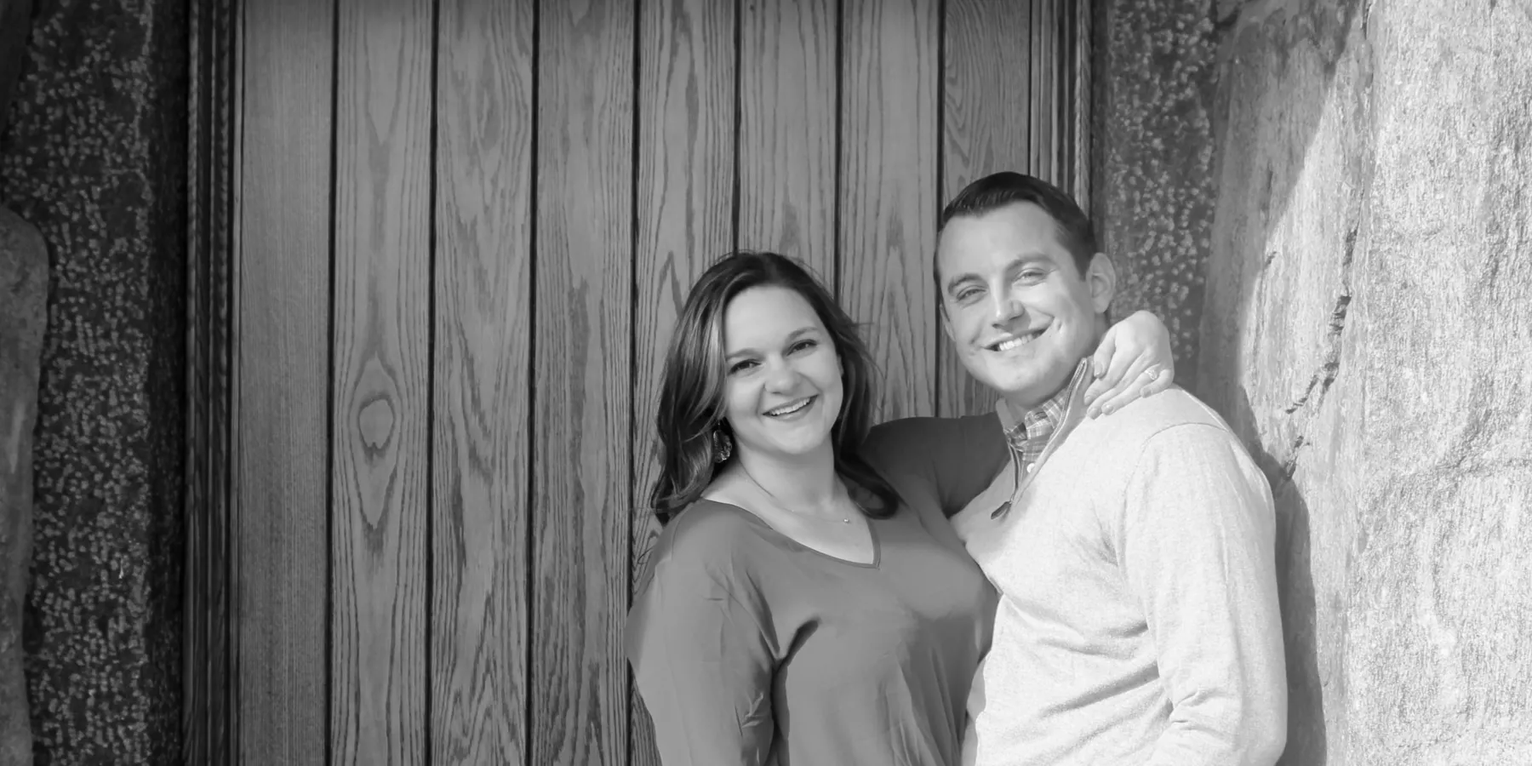
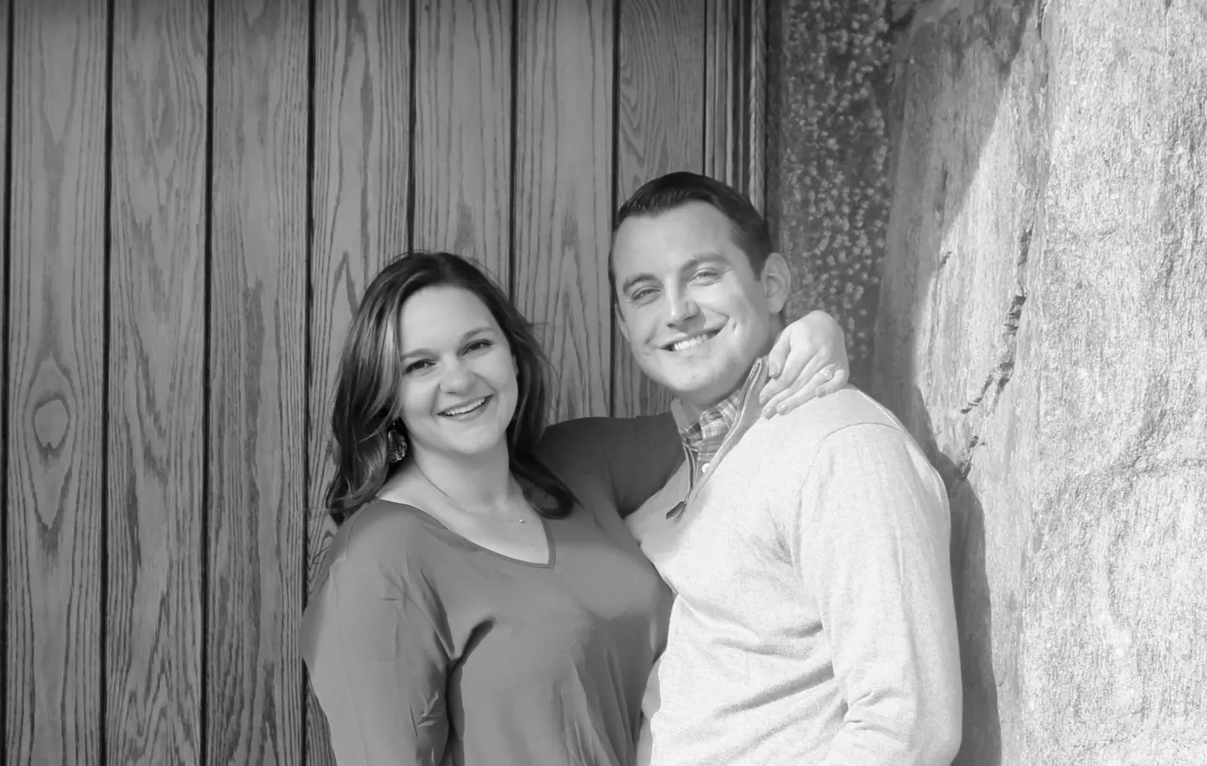
image cropping

diff --git a/css/styles.min.css b/css/styles.min.css
@@ -1,1 +1,1 @@
-@import url(https://fonts.googleapis.com/css?family=Open+Sans:300italic,400italic,600italic,700italic,800italic,400,300,600,700,800);@import url(https://fonts.googleapis.com/css?family=Merriweather:400,300,400italic,300italic,700,700italic);@import url(https://fonts.googleapis.com/css?family=Nunito:400,300,700);p{font-size:15px;line-height:29px;color:rgba(28,54,83,0.6);padding-bottom:20px}h1{font-size:60px}h2{font-size:40px;font-weight:300;color:#3D4351}h3{color:#3D4351;font-size:18px;font-weight:700;text-transform:uppercase;letter-spacing:3px;line-height:29px}h4{font-size:18px}h5{font-size:15px;color:#3D4351;text-transform:uppercase;font-weight:500}.btn{font-size:13px;border:solid 2px;-moz-border-radius:40px;-webkit-border-radius:40px;border-radius:40px;display:inline-block;text-transform:uppercase}.btn:hover,.btn:focus{color:#fff;border-color:#e8ca6f;background-color:#e8ca6f}.btn-white{font-size:13px;border:solid 2px;-moz-border-radius:40px;-webkit-border-radius:40px;border-radius:40px;display:inline-block;border-color:#fff}.btn-white:hover,.btn-white:focus{color:#e8ca6f;border-color:#e8ca6f}.btn-fill{color:#fff;border:solid 2px #e8ca6f;-moz-border-radius:40px;-webkit-border-radius:40px;border-radius:40px;display:inline-block;text-transform:uppercase;background-color:#e8ca6f}.btn-fill:hover,.btn-fill:focus{color:#fff;background-color:#d3b56a;border-color:#d3b56a}.btn-small{padding:8px 30px}.btn-large{padding:15px 40px}.btn-margin-right{margin-right:20px}section.intro,section.features-extra,section.rsvp{background:#fff}section.features,section.events,section.blog{background:#f8f9fd}.group:after{content:"";display:table;clear:both}.no-padding{padding:0}.no-margin{margin:0}a{color:#e8ca6f;-webkit-transition-timing-function:ease;transition-timing-function:ease;-webkit-transition-duration:200ms;transition-duration:200ms;-webkit-transition-property:color, border-color, background-color;transition-property:color, border-color, background-color}a:hover,a:focus{color:#d3b56a;text-decoration:none}body{font-family:"Open Sans",sans-serif;font-weight:300;color:rgba(28,54,83,0.6);-webkit-text-size-adjust:100%}*:focus{outline:none !important}ul,ol{margin:0;padding:0}ul li{list-style:none}section .header{padding-bottom:30px}.section-padding{padding:40px 0}.section-border{border-bottom:1px solid #E6E9EA}.tooltip{position:absolute;z-index:1070;display:block;font-family:"Helvetica Neue", Helvetica, Arial, sans-serif;font-size:12px;font-weight:normal;line-height:1.4;visibility:visible;filter:alpha(opacity=0);opacity:0}.tooltip.in{filter:alpha(opacity=90);opacity:.9}.tooltip.top{padding:5px 0;margin-top:-3px}.tooltip.right{padding:0 5px;margin-left:3px}.tooltip.bottom{padding:5px 0;margin-top:3px}.tooltip.left{padding:0 5px;margin-left:-3px}.tooltip-inner{max-width:200px;padding:3px 8px;color:#fff;text-align:center;text-decoration:none;text-transform:capitalize;background-color:#000;border-radius:4px}.pulse2{animation-name:pulse2;animation-duration:1s;animation-iteration-count:infinite;animation-timing-function:linear}@keyframes pulse2{0%{transform:scale(1.1)}50%{transform:scale(0.8)}100%{transform:scale(1)}}.floating-arrow{animation-name:floating-arrow;animation-duration:2s;animation-iteration-count:infinite;animation-timing-function:ease-in-out}@keyframes floating-arrow{from{transform:translate(-50%, 0)}65%{transform:translate(-50%, 15px)}to{transform:translate(-50%, 0)}}.floating-logo{animation-name:floating-logo;animation-duration:2s;animation-iteration-count:infinite;animation-timing-function:ease-in-out}@keyframes floating-logo{from{transform:translate(-50%, 0)}50%{transform:translate(-50%, 10px)}to{transform:translate(-50%, 0)}}.wp1,.wp2,.wp3,.wp4,.wp5,.wp6,.wp7,.wp8,.wp9{visibility:hidden}.wp8,.wp9{-webkit-animation-delay:0.3s;animation-delay:0.3s}.bounceInLeft,.bounceInRight,.fadeInUp,.fadeInUpDelay,.fadeInDown,.fadeInUpD,.fadeInLeft,.fadeInRight,.bounceInDown{visibility:visible}.header-nav.open{visibility:visible;opacity:0.9;-webkit-transition:opacity 0.5s;transition:opacity 0.5s}.nav-toggle{position:absolute;top:0;right:15px;z-index:999999;padding:10px 35px 16px 0;cursor:pointer}.nav-toggle:focus{outline:none}.nav-toggle span,.nav-toggle span:before,.nav-toggle span:after{content:"";position:absolute;display:block;width:35px;height:3px;-moz-border-radius:1px;-webkit-border-radius:1px;border-radius:1px;background:#fff;cursor:pointer}.nav-toggle span:before{top:-10px}.nav-toggle span:after{bottom:-10px}.nav-toggle span,.nav-toggle span:before,.nav-toggle span:after{-moz-transition:all 300ms ease-in-out;-o-transition:all 300ms ease-in-out;-webkit-transition:all 300ms ease-in-out;transition:all 300ms ease-in-out}.nav-toggle.active span{background-color:transparent}.nav-toggle.active span:before,.nav-toggle.active span:after{top:0}.nav-toggle.active span:before{-moz-transform:rotate(45deg);-ms-transform:rotate(45deg);-o-transform:rotate(45deg);-webkit-transform:rotate(45deg);transform:rotate(45deg)}.nav-toggle.active span:after{top:10px;-moz-transform:translatey(-10px) rotate(-45deg);-ms-transform:translatey(-10px) rotate(-45deg);-o-transform:translatey(-10px) rotate(-45deg);-webkit-transform:translatey(-10px) rotate(-45deg);transform:translatey(-10px) rotate(-45deg)}.navicon{position:absolute;height:26px;right:10px;top:48px;visibility:hidden;transition:all 300ms ease-in-out}.hero{min-height:750px;background:url("../img/hero-min.jpg") center center;-webkit-background-size:cover;-moz-background-size:cover;-o-background-size:cover;background-size:cover;position:relative}.hero .down-arrow a{color:#fff}.hero h1{color:#fff;margin-bottom:40px}.hero p.intro{color:#fff;font-size:20px;font-weight:300;margin-bottom:80px}.hero .hero-content{padding-top:40%}.hero .hero-content img{width:55%;margin-bottom:12%}.navigation{transition:all 300ms ease-in-out;position:fixed;width:100%;z-index:999}.fixed{position:fixed;background-color:rgba(55,36,40,0.88);z-index:999;width:100%}header{padding:50px 0;border-bottom:solid 1px rgba(255,255,255,0.2);position:relative;width:1170px;margin:0 auto;transition:padding 300ms ease-in-out}header a{color:#fff;text-transform:uppercase;font-size:13px}header a.login{margin-right:20px}header .logo{display:inline-block}header .logo img{height:19px}header ul.primary-nav{margin:0 0 0 75px;padding:0}header ul.primary-nav li{display:inline}header ul.primary-nav li a{color:#fff;padding-right:25px}header ul.primary-nav li a:hover{color:#e8ca6f}header ul.primary-nav li:last-child a{padding-right:0px}header ul.member-actions li{display:inline}header ul.member-actions li a{color:#fff}header ul.member-actions li a:hover{color:#e8ca6f}header .header-nav{display:inline-block}header .member-actions{position:absolute;right:0;top:41px;transition:all 300ms ease-in-out}.down-arrow{color:#fff;font-size:30px;position:absolute;bottom:30px;left:50%;transform:translateX(-50%)}.share-bar{margin-top:20px}.intro span.icon{font-size:40px;color:#e8ca6f;font-weight:bold}.intro-icon{display:inline-block;vertical-align:top;padding:6px 0 0 0;margin-right:20px;width:40px}.intro-content{display:inline-block;width:80%}#intro{padding-top:40px}#intro img{width:100%;height:auto}#intro p{text-align:center}.features{position:relative}.features p{margin-bottom:0;padding-bottom:0}.features h3{margin:0 0 20px 0}.features span.icon{font-size:35px;color:#e8ca6f;font-weight:bold}.features .feature-icon{display:inline-block;vertical-align:top;padding:6px 0 0 0;margin-right:20px;width:35px}.features .feature-content{display:inline-block;width:75%}.features .intro-icon{display:inline-block;vertical-align:top;padding:6px 0 0 0;margin-right:20px}.features .intro-content{display:inline-block;width:80%}.features ul.features-stack{margin-top:50px}.features ul.features-stack li{margin-top:20px;padding-bottom:20px;border-bottom:solid 1px #E6E9EA}.features ul.features-stack li:last-child{padding-bottom:0px;border-bottom:none}.features .ipad-wrap{width:706px;height:1002px;background:url("../img/ipad-device.png") no-repeat center center;z-index:1}.features .iphone-wrap{width:304px;height:620px;background:url("../img/iphone6.png") no-repeat center center;position:absolute;left:530px;bottom:129px;z-index:2}.features .device-showcase{position:absolute;bottom:-365px;right:61%}.features .responsive-feature-img,.features-extra .responsive-feature-img{display:none}.devices{position:relative}.features-extra{position:relative;z-index:3}.features-extra .btn{margin-top:20px}.features-extra .macbook-wrap{position:absolute;width:916px;height:540px;background:url("../img/macbook-pro.png") no-repeat center center;top:114px;z-index:4;left:50%}.hero-strip{margin-top:120px;background:#333844 url("../img/polygonal-bg.jpg") no-repeat center center;padding-bottom:190px;position:relative}.hero-strip i{font-family:"Nunito",sans-serif;font-weight:300;font-size:25px;color:#F69D52;vertical-align:top;margin-left:-8px;font-style:normal}.hero-strip h2{color:#fff;margin:0 0 20px 0}.hero-strip p{color:#ACB1B4}.hero-strip .btn{margin-top:10px}.hero-strip .logo-placeholder{width:230px;height:230px;position:absolute;bottom:-285px;left:50%;transform:translateX(-50%)}.events .leftcol{padding-right:100px;border-right:solid 1px #E6E9EA}.events .rightcol{padding-left:100px}.events .time{font-size:13px;font-style:italic;text-transform:lowercase;color:rgba(28,54,83,0.6)}.blog{padding-bottom:120px}.blog img{width:100%;height:auto;-moz-transition:all 300ms ease-in-out;-o-transition:all 300ms ease-in-out;-webkit-transition:all 300ms ease-in-out;transition:all 300ms ease-in-out}.blog h2{font-size:11px;color:#ACB1B4;font-weight:500;text-transform:uppercase;margin-top:35px}.blog .btn{margin-top:20px}.blog .blog-img-wrap{position:relative;overflow:hidden}.blog .blog-img-wrap .overlay{position:absolute;width:100%;height:100%;background-color:rgba(255,255,255,0.5);-moz-transition:all 300ms ease-in-out;-o-transition:all 300ms ease-in-out;-webkit-transition:all 300ms ease-in-out;transition:all 300ms ease-in-out;-ms-filter:"progid:DXImageTransform.Microsoft.Alpha(Opacity=0)";filter:alpha(opacity=0);opacity:0}.blog .blog-img-wrap i{color:#fff;font-size:20px;position:absolute;width:20px;height:20px;top:25px;right:35px}.blog .blog-img-wrap:hover img,.blog .blog-img-wrap:focus img{-moz-transform:scale(1.1);-ms-transform:scale(1.1);-o-transform:scale(1.1);-webkit-transform:scale(1.1);transform:scale(1.1)}.blog .blog-img-wrap:hover .overlay,.blog .blog-img-wrap:focus .overlay{-ms-filter:"progid:DXImageTransform.Microsoft.Alpha(Opacity=1)";filter:alpha(opacity=1);opacity:1;z-index:9}.blog figcaption i{margin-left:5px;font-size:15px}.blog figcaption a.blog-post-title{color:rgba(28,54,83,0.6)}.blog figcaption a.blog-post-title:hover,.blog figcaption a.blog-post-title:focus{color:#3D4351}#instagram img{width:100%}#eng-pics img{width:100%;height:auto;-moz-transition:all 300ms ease-in-out;-o-transition:all 300ms ease-in-out;-webkit-transition:all 300ms ease-in-out;transition:all 300ms ease-in-out}#eng-pics .img-wrap{position:relative;overflow:hidden;border-radius:4px}#eng-pics .img-wrap .overlay{position:absolute;width:100%;height:100%;background-color:rgba(255,255,255,0.5);-moz-transition:all 300ms ease-in-out;-o-transition:all 300ms ease-in-out;-webkit-transition:all 300ms ease-in-out;transition:all 300ms ease-in-out;-ms-filter:"progid:DXImageTransform.Microsoft.Alpha(Opacity=0)";filter:alpha(opacity=0);opacity:0}#eng-pics .img-wrap i{color:#fff;font-size:15px;position:absolute;width:15px;height:15px;top:6px;right:6px}#eng-pics .img-wrap:hover img,#eng-pics .img-wrap:focus img{-moz-transform:scale(1.1);-ms-transform:scale(1.1);-o-transform:scale(1.1);-webkit-transform:scale(1.1);transform:scale(1.1)}#eng-pics .img-wrap:hover .overlay,#eng-pics .img-wrap:focus .overlay{-ms-filter:"progid:DXImageTransform.Microsoft.Alpha(Opacity=1)";filter:alpha(opacity=1);opacity:1;z-index:9}#eng-pics .diamond{width:230px;height:230px;position:absolute;bottom:-145px;left:50%;transform:translateX(-50%);z-index:500}#eng-pics .ring{width:75px;height:75px;border-radius:75px;border:10px solid #d0d3d4;position:absolute;left:34%;top:75%;z-index:-1}#video-bg{height:300px}#video-content{width:100%;height:100%;padding-top:100px;position:relative;background:rgba(17,17,17,0.5);text-align:center}#video-content h5{color:#ffffff;font-size:30px;font-weight:300;letter-spacing:10px}#video-content p{color:#ffffff}#map-canvas{height:500px;width:100%}#map-content-wrapper{position:relative;margin-top:-502px;margin-bottom:150px}#map-content{margin-top:40px;padding:50px 60px;background:#fff;-webkit-transition:opacity 0.5s, visibility 0.6s, margin-top 0.5s;transition:opacity 0.5s, visibility 0.6s, margin-top 0.5s}#btn-show-content{padding:20px;background:#fff;cursor:pointer;display:inline-block;-webkit-transition:opacity 0.5s, visibility 0.6s, margin-top 0.5s;transition:opacity 0.5s, visibility 0.6s, margin-top 0.5s}.toggle-map-content{opacity:0;visibility:hidden}.pointer-events-none{pointer-events:none}.pointer-events-auto{pointer-events:auto}.rsvp{padding-bottom:140px}.rsvp .rsvp-form .rsvp-btn{padding:15px 0;border-radius:3px;width:100%;font-size:13px}.rsvp .rsvp-form .form-input-group{width:100%;height:55px;margin:0 auto 10px;-moz-border-radius:5px;-webkit-border-radius:5px;border-radius:5px;border:solid 1px #E6E9EA;text-align:left;position:relative}.rsvp .rsvp-form .form-input-group i{color:#e8ca6f;font-size:14px}.rsvp .rsvp-form .form-input-group i:after{content:"";height:30px;width:1px;border-right:solid 1px #E6E9EA;position:absolute;top:50%;left:30px;transform:translateY(-50%)}.rsvp .rsvp-form .form-input-group i.fa-user,.rsvp .rsvp-form .form-input-group i.fa-users,.rsvp .rsvp-form .form-input-group i.fa-envelope,.rsvp .rsvp-form .form-input-group .fa-key{font-size:14px;position:absolute;top:50%;transform:translateY(-50%);margin-left:20px}.rsvp .rsvp-form .form-input-group input{padding-left:68px;width:100%;height:100%;-moz-border-radius:6px;-webkit-border-radius:6px;border-radius:6px;border:none}.rsvp .rsvp-form .form-input-group input::-webkit-input-placeholder{color:#BCC1C3}.rsvp .rsvp-form .form-input-group input:-moz-placeholder{color:#BCC1C3}.rsvp .rsvp-form .form-input-group input::-moz-placeholder{color:#BCC1C3}.rsvp .rsvp-form .form-input-group input:-ms-input-placeholder{color:#BCC1C3}footer .content{border-top:1px solid #E6E9EA;padding-bottom:20px}footer .to-top-wrapper{font-size:30px;display:block;cursor:pointer;margin:-25px auto 50px;border-radius:50%;width:50px;height:50px;border:1px solid #E6E9EA;background:#fff}footer .to-top-wrapper .to-top{display:block;-webkit-transition:all .3s ease-in-out;-moz-transition:all .3s ease-in-out;-ms-transition:all .3s ease-in-out;-o-transition:all .3s ease-in-out;transition:all .3s ease-in-out}footer .to-top-wrapper .to-top:hover{margin-top:-5px}footer span.fa-heart{color:#ff415c;font-size:18px;margin:0 2px}body.modal-open{padding-right:0 !important}.modal-body{padding:25px}
+@import url(https://fonts.googleapis.com/css?family=Open+Sans:300italic,400italic,600italic,700italic,800italic,400,300,600,700,800);@import url(https://fonts.googleapis.com/css?family=Merriweather:400,300,400italic,300italic,700,700italic);@import url(https://fonts.googleapis.com/css?family=Nunito:400,300,700);p{font-size:15px;line-height:29px;color:rgba(28,54,83,0.6);padding-bottom:20px}h1{font-size:60px}h2{font-size:40px;font-weight:300;color:#3D4351}h3{color:#3D4351;font-size:18px;font-weight:700;text-transform:uppercase;letter-spacing:3px;line-height:29px}h4{font-size:18px}h5{font-size:15px;color:#3D4351;text-transform:uppercase;font-weight:500}.btn{font-size:13px;border:solid 2px;-moz-border-radius:40px;-webkit-border-radius:40px;border-radius:40px;display:inline-block;text-transform:uppercase}.btn:hover,.btn:focus{color:#fff;border-color:#e8ca6f;background-color:#e8ca6f}.btn-white{font-size:13px;border:solid 2px;-moz-border-radius:40px;-webkit-border-radius:40px;border-radius:40px;display:inline-block;border-color:#fff}.btn-white:hover,.btn-white:focus{color:#e8ca6f;border-color:#e8ca6f}.btn-fill{color:#fff;border:solid 2px #e8ca6f;-moz-border-radius:40px;-webkit-border-radius:40px;border-radius:40px;display:inline-block;text-transform:uppercase;background-color:#e8ca6f}.btn-fill:hover,.btn-fill:focus{color:#fff;background-color:#d3b56a;border-color:#d3b56a}.btn-small{padding:8px 30px}.btn-large{padding:15px 40px}.btn-margin-right{margin-right:20px}section.intro,section.features-extra,section.rsvp{background:#fff}section.features,section.events,section.blog{background:#f8f9fd}.group:after{content:"";display:table;clear:both}.no-padding{padding:0}.no-margin{margin:0}a{color:#e8ca6f;-webkit-transition-timing-function:ease;transition-timing-function:ease;-webkit-transition-duration:200ms;transition-duration:200ms;-webkit-transition-property:color, border-color, background-color;transition-property:color, border-color, background-color}a:hover,a:focus{color:#d3b56a;text-decoration:none}body{font-family:"Open Sans",sans-serif;font-weight:300;color:rgba(28,54,83,0.6);-webkit-text-size-adjust:100%}*:focus{outline:none !important}ul,ol{margin:0;padding:0}ul li{list-style:none}section .header{padding-bottom:30px}.section-padding{padding:40px 0}.section-border{border-bottom:1px solid #E6E9EA}.tooltip{position:absolute;z-index:1070;display:block;font-family:"Helvetica Neue", Helvetica, Arial, sans-serif;font-size:12px;font-weight:normal;line-height:1.4;visibility:visible;filter:alpha(opacity=0);opacity:0}.tooltip.in{filter:alpha(opacity=90);opacity:.9}.tooltip.top{padding:5px 0;margin-top:-3px}.tooltip.right{padding:0 5px;margin-left:3px}.tooltip.bottom{padding:5px 0;margin-top:3px}.tooltip.left{padding:0 5px;margin-left:-3px}.tooltip-inner{max-width:200px;padding:3px 8px;color:#fff;text-align:center;text-decoration:none;text-transform:capitalize;background-color:#000;border-radius:4px}.pulse2{animation-name:pulse2;animation-duration:1s;animation-iteration-count:infinite;animation-timing-function:linear}@keyframes pulse2{0%{transform:scale(1.1)}50%{transform:scale(0.8)}100%{transform:scale(1)}}.floating-arrow{animation-name:floating-arrow;animation-duration:2s;animation-iteration-count:infinite;animation-timing-function:ease-in-out}@keyframes floating-arrow{from{transform:translate(-50%, 0)}65%{transform:translate(-50%, 15px)}to{transform:translate(-50%, 0)}}.floating-logo{animation-name:floating-logo;animation-duration:2s;animation-iteration-count:infinite;animation-timing-function:ease-in-out}@keyframes floating-logo{from{transform:translate(-50%, 0)}50%{transform:translate(-50%, 10px)}to{transform:translate(-50%, 0)}}.wp1,.wp2,.wp3,.wp4,.wp5,.wp6,.wp7,.wp8,.wp9{visibility:hidden}.wp8,.wp9{-webkit-animation-delay:0.3s;animation-delay:0.3s}.bounceInLeft,.bounceInRight,.fadeInUp,.fadeInUpDelay,.fadeInDown,.fadeInUpD,.fadeInLeft,.fadeInRight,.bounceInDown{visibility:visible}.header-nav.open{visibility:visible;opacity:0.9;-webkit-transition:opacity 0.5s;transition:opacity 0.5s}.nav-toggle{position:absolute;top:0;right:15px;z-index:999999;padding:10px 35px 16px 0;cursor:pointer}.nav-toggle:focus{outline:none}.nav-toggle span,.nav-toggle span:before,.nav-toggle span:after{content:"";position:absolute;display:block;width:35px;height:3px;-moz-border-radius:1px;-webkit-border-radius:1px;border-radius:1px;background:#fff;cursor:pointer}.nav-toggle span:before{top:-10px}.nav-toggle span:after{bottom:-10px}.nav-toggle span,.nav-toggle span:before,.nav-toggle span:after{-moz-transition:all 300ms ease-in-out;-o-transition:all 300ms ease-in-out;-webkit-transition:all 300ms ease-in-out;transition:all 300ms ease-in-out}.nav-toggle.active span{background-color:transparent}.nav-toggle.active span:before,.nav-toggle.active span:after{top:0}.nav-toggle.active span:before{-moz-transform:rotate(45deg);-ms-transform:rotate(45deg);-o-transform:rotate(45deg);-webkit-transform:rotate(45deg);transform:rotate(45deg)}.nav-toggle.active span:after{top:10px;-moz-transform:translatey(-10px) rotate(-45deg);-ms-transform:translatey(-10px) rotate(-45deg);-o-transform:translatey(-10px) rotate(-45deg);-webkit-transform:translatey(-10px) rotate(-45deg);transform:translatey(-10px) rotate(-45deg)}.navicon{position:absolute;height:26px;right:10px;top:48px;visibility:hidden;transition:all 300ms ease-in-out}.hero{min-height:100vh;width:100vw;height:100vh;background:url("../img/hero-min.jpg") center center;-webkit-background-size:cover;-moz-background-size:cover;-o-background-size:cover;background-size:cover;position:relative}.hero .down-arrow a{color:#fff}.hero h1{color:#fff;margin-bottom:40px}.hero p.intro{color:#fff;font-size:20px;font-weight:300;margin-bottom:80px}.hero .hero-content{padding-top:40%}.hero .hero-content img{width:55%;margin-bottom:12%;background-size:cover}.navigation{transition:all 300ms ease-in-out;position:fixed;width:100%;z-index:999}.fixed{position:fixed;background-color:rgba(55,36,40,0.88);z-index:999;width:100%}header{padding:50px 0;border-bottom:solid 1px rgba(255,255,255,0.2);position:relative;width:1170px;margin:0 auto;transition:padding 300ms ease-in-out}header a{color:#fff;text-transform:uppercase;font-size:13px}header a.login{margin-right:20px}header .logo{display:inline-block}header .logo img{height:19px}header ul.primary-nav{margin:0 0 0 75px;padding:0}header ul.primary-nav li{display:inline}header ul.primary-nav li a{color:#fff;padding-right:25px}header ul.primary-nav li a:hover{color:#e8ca6f}header ul.primary-nav li:last-child a{padding-right:0px}header ul.member-actions li{display:inline}header ul.member-actions li a{color:#fff}header ul.member-actions li a:hover{color:#e8ca6f}header .header-nav{display:inline-block}header .member-actions{position:absolute;right:0;top:41px;transition:all 300ms ease-in-out}.down-arrow{color:#fff;font-size:30px;position:absolute;bottom:30px;left:50%;transform:translateX(-50%)}.share-bar{margin-top:20px}.intro span.icon{font-size:40px;color:#e8ca6f;font-weight:bold}.intro-icon{display:inline-block;vertical-align:top;padding:6px 0 0 0;margin-right:20px;width:40px}.intro-content{display:inline-block;width:80%}#intro{padding-top:40px}#intro img{width:100%;height:auto}#intro p{text-align:center}.features{position:relative}.features p{margin-bottom:0;padding-bottom:0}.features h3{margin:0 0 20px 0}.features span.icon{font-size:35px;color:#e8ca6f;font-weight:bold}.features .feature-icon{display:inline-block;vertical-align:top;padding:6px 0 0 0;margin-right:20px;width:35px}.features .feature-content{display:inline-block;width:75%}.features .intro-icon{display:inline-block;vertical-align:top;padding:6px 0 0 0;margin-right:20px}.features .intro-content{display:inline-block;width:80%}.features ul.features-stack{margin-top:50px}.features ul.features-stack li{margin-top:20px;padding-bottom:20px;border-bottom:solid 1px #E6E9EA}.features ul.features-stack li:last-child{padding-bottom:0px;border-bottom:none}.features .ipad-wrap{width:706px;height:1002px;background:url("../img/ipad-device.png") no-repeat center center;z-index:1}.features .iphone-wrap{width:304px;height:620px;background:url("../img/iphone6.png") no-repeat center center;position:absolute;left:530px;bottom:129px;z-index:2}.features .device-showcase{position:absolute;bottom:-365px;right:61%}.features .responsive-feature-img,.features-extra .responsive-feature-img{display:none}.devices{position:relative}.features-extra{position:relative;z-index:3}.features-extra .btn{margin-top:20px}.features-extra .macbook-wrap{position:absolute;width:916px;height:540px;background:url("../img/macbook-pro.png") no-repeat center center;top:114px;z-index:4;left:50%}.hero-strip{margin-top:120px;background:#333844 url("../img/polygonal-bg.jpg") no-repeat center center;padding-bottom:190px;position:relative}.hero-strip i{font-family:"Nunito",sans-serif;font-weight:300;font-size:25px;color:#F69D52;vertical-align:top;margin-left:-8px;font-style:normal}.hero-strip h2{color:#fff;margin:0 0 20px 0}.hero-strip p{color:#ACB1B4}.hero-strip .btn{margin-top:10px}.hero-strip .logo-placeholder{width:230px;height:230px;position:absolute;bottom:-285px;left:50%;transform:translateX(-50%)}.events .leftcol{padding-right:100px;border-right:solid 1px #E6E9EA}.events .rightcol{padding-left:100px}.events .time{font-size:13px;font-style:italic;text-transform:lowercase;color:rgba(28,54,83,0.6)}.blog{padding-bottom:120px}.blog img{width:100%;height:auto;-moz-transition:all 300ms ease-in-out;-o-transition:all 300ms ease-in-out;-webkit-transition:all 300ms ease-in-out;transition:all 300ms ease-in-out}.blog h2{font-size:11px;color:#ACB1B4;font-weight:500;text-transform:uppercase;margin-top:35px}.blog .btn{margin-top:20px}.blog .blog-img-wrap{position:relative;overflow:hidden}.blog .blog-img-wrap .overlay{position:absolute;width:100%;height:100%;background-color:rgba(255,255,255,0.5);-moz-transition:all 300ms ease-in-out;-o-transition:all 300ms ease-in-out;-webkit-transition:all 300ms ease-in-out;transition:all 300ms ease-in-out;-ms-filter:"progid:DXImageTransform.Microsoft.Alpha(Opacity=0)";filter:alpha(opacity=0);opacity:0}.blog .blog-img-wrap i{color:#fff;font-size:20px;position:absolute;width:20px;height:20px;top:25px;right:35px}.blog .blog-img-wrap:hover img,.blog .blog-img-wrap:focus img{-moz-transform:scale(1.1);-ms-transform:scale(1.1);-o-transform:scale(1.1);-webkit-transform:scale(1.1);transform:scale(1.1)}.blog .blog-img-wrap:hover .overlay,.blog .blog-img-wrap:focus .overlay{-ms-filter:"progid:DXImageTransform.Microsoft.Alpha(Opacity=1)";filter:alpha(opacity=1);opacity:1;z-index:9}.blog figcaption i{margin-left:5px;font-size:15px}.blog figcaption a.blog-post-title{color:rgba(28,54,83,0.6)}.blog figcaption a.blog-post-title:hover,.blog figcaption a.blog-post-title:focus{color:#3D4351}#instagram img{width:100%}#eng-pics img{width:100%;height:auto;-moz-transition:all 300ms ease-in-out;-o-transition:all 300ms ease-in-out;-webkit-transition:all 300ms ease-in-out;transition:all 300ms ease-in-out}#eng-pics .img-wrap{position:relative;overflow:hidden;border-radius:4px}#eng-pics .img-wrap .overlay{position:absolute;width:100%;height:100%;background-color:rgba(255,255,255,0.5);-moz-transition:all 300ms ease-in-out;-o-transition:all 300ms ease-in-out;-webkit-transition:all 300ms ease-in-out;transition:all 300ms ease-in-out;-ms-filter:"progid:DXImageTransform.Microsoft.Alpha(Opacity=0)";filter:alpha(opacity=0);opacity:0}#eng-pics .img-wrap i{color:#fff;font-size:15px;position:absolute;width:15px;height:15px;top:6px;right:6px}#eng-pics .img-wrap:hover img,#eng-pics .img-wrap:focus img{-moz-transform:scale(1.1);-ms-transform:scale(1.1);-o-transform:scale(1.1);-webkit-transform:scale(1.1);transform:scale(1.1)}#eng-pics .img-wrap:hover .overlay,#eng-pics .img-wrap:focus .overlay{-ms-filter:"progid:DXImageTransform.Microsoft.Alpha(Opacity=1)";filter:alpha(opacity=1);opacity:1;z-index:9}#eng-pics .diamond{width:230px;height:230px;position:absolute;bottom:-145px;left:50%;transform:translateX(-50%);z-index:500}#eng-pics .ring{width:75px;height:75px;border-radius:75px;border:10px solid #d0d3d4;position:absolute;left:34%;top:75%;z-index:-1}#video-bg{height:300px}#video-content{width:100%;height:100%;padding-top:100px;position:relative;background:rgba(17,17,17,0.5);text-align:center}#video-content h5{color:#ffffff;font-size:30px;font-weight:300;letter-spacing:10px}#video-content p{color:#ffffff}#map-canvas{height:500px;width:100%}#map-content-wrapper{position:relative;margin-top:-502px;margin-bottom:150px}#map-content{margin-top:40px;padding:50px 60px;background:#fff;-webkit-transition:opacity 0.5s, visibility 0.6s, margin-top 0.5s;transition:opacity 0.5s, visibility 0.6s, margin-top 0.5s}#btn-show-content{padding:20px;background:#fff;cursor:pointer;display:inline-block;-webkit-transition:opacity 0.5s, visibility 0.6s, margin-top 0.5s;transition:opacity 0.5s, visibility 0.6s, margin-top 0.5s}.toggle-map-content{opacity:0;visibility:hidden}.pointer-events-none{pointer-events:none}.pointer-events-auto{pointer-events:auto}.rsvp{padding-bottom:140px}.rsvp .rsvp-form .rsvp-btn{padding:15px 0;border-radius:3px;width:100%;font-size:13px}.rsvp .rsvp-form .form-input-group{width:100%;height:55px;margin:0 auto 10px;-moz-border-radius:5px;-webkit-border-radius:5px;border-radius:5px;border:solid 1px #E6E9EA;text-align:left;position:relative}.rsvp .rsvp-form .form-input-group i{color:#e8ca6f;font-size:14px}.rsvp .rsvp-form .form-input-group i:after{content:"";height:30px;width:1px;border-right:solid 1px #E6E9EA;position:absolute;top:50%;left:30px;transform:translateY(-50%)}.rsvp .rsvp-form .form-input-group i.fa-user,.rsvp .rsvp-form .form-input-group i.fa-users,.rsvp .rsvp-form .form-input-group i.fa-envelope,.rsvp .rsvp-form .form-input-group .fa-key{font-size:14px;position:absolute;top:50%;transform:translateY(-50%);margin-left:20px}.rsvp .rsvp-form .form-input-group input{padding-left:68px;width:100%;height:100%;-moz-border-radius:6px;-webkit-border-radius:6px;border-radius:6px;border:none}.rsvp .rsvp-form .form-input-group input::-webkit-input-placeholder{color:#BCC1C3}.rsvp .rsvp-form .form-input-group input:-moz-placeholder{color:#BCC1C3}.rsvp .rsvp-form .form-input-group input::-moz-placeholder{color:#BCC1C3}.rsvp .rsvp-form .form-input-group input:-ms-input-placeholder{color:#BCC1C3}footer .content{border-top:1px solid #E6E9EA;padding-bottom:20px}footer .to-top-wrapper{font-size:30px;display:block;cursor:pointer;margin:-25px auto 50px;border-radius:50%;width:50px;height:50px;border:1px solid #E6E9EA;background:#fff}footer .to-top-wrapper .to-top{display:block;-webkit-transition:all .3s ease-in-out;-moz-transition:all .3s ease-in-out;-ms-transition:all .3s ease-in-out;-o-transition:all .3s ease-in-out;transition:all .3s ease-in-out}footer .to-top-wrapper .to-top:hover{margin-top:-5px}footer span.fa-heart{color:#ff415c;font-size:18px;margin:0 2px}body.modal-open{padding-right:0 !important}.modal-body{padding:25px}

diff --git a/sass/styles.scss b/sass/styles.scss
@@ -251,7 +251,9 @@ Navigation
 Hero
 ========================================================================== */
 .hero {
-  min-height: 750px;
+  min-height: 100vh;
+  width: 100vw;
+  height: 100vh;
   background: url('../img/hero-min.jpg') center center;
   -webkit-background-size: cover;
   -moz-background-size: cover;
@@ -283,6 +285,7 @@ Hero
   .hero-content img {
     width: 55%;
     margin-bottom: 12%;
+    background-size: cover
   }
 }
 .navigation {
